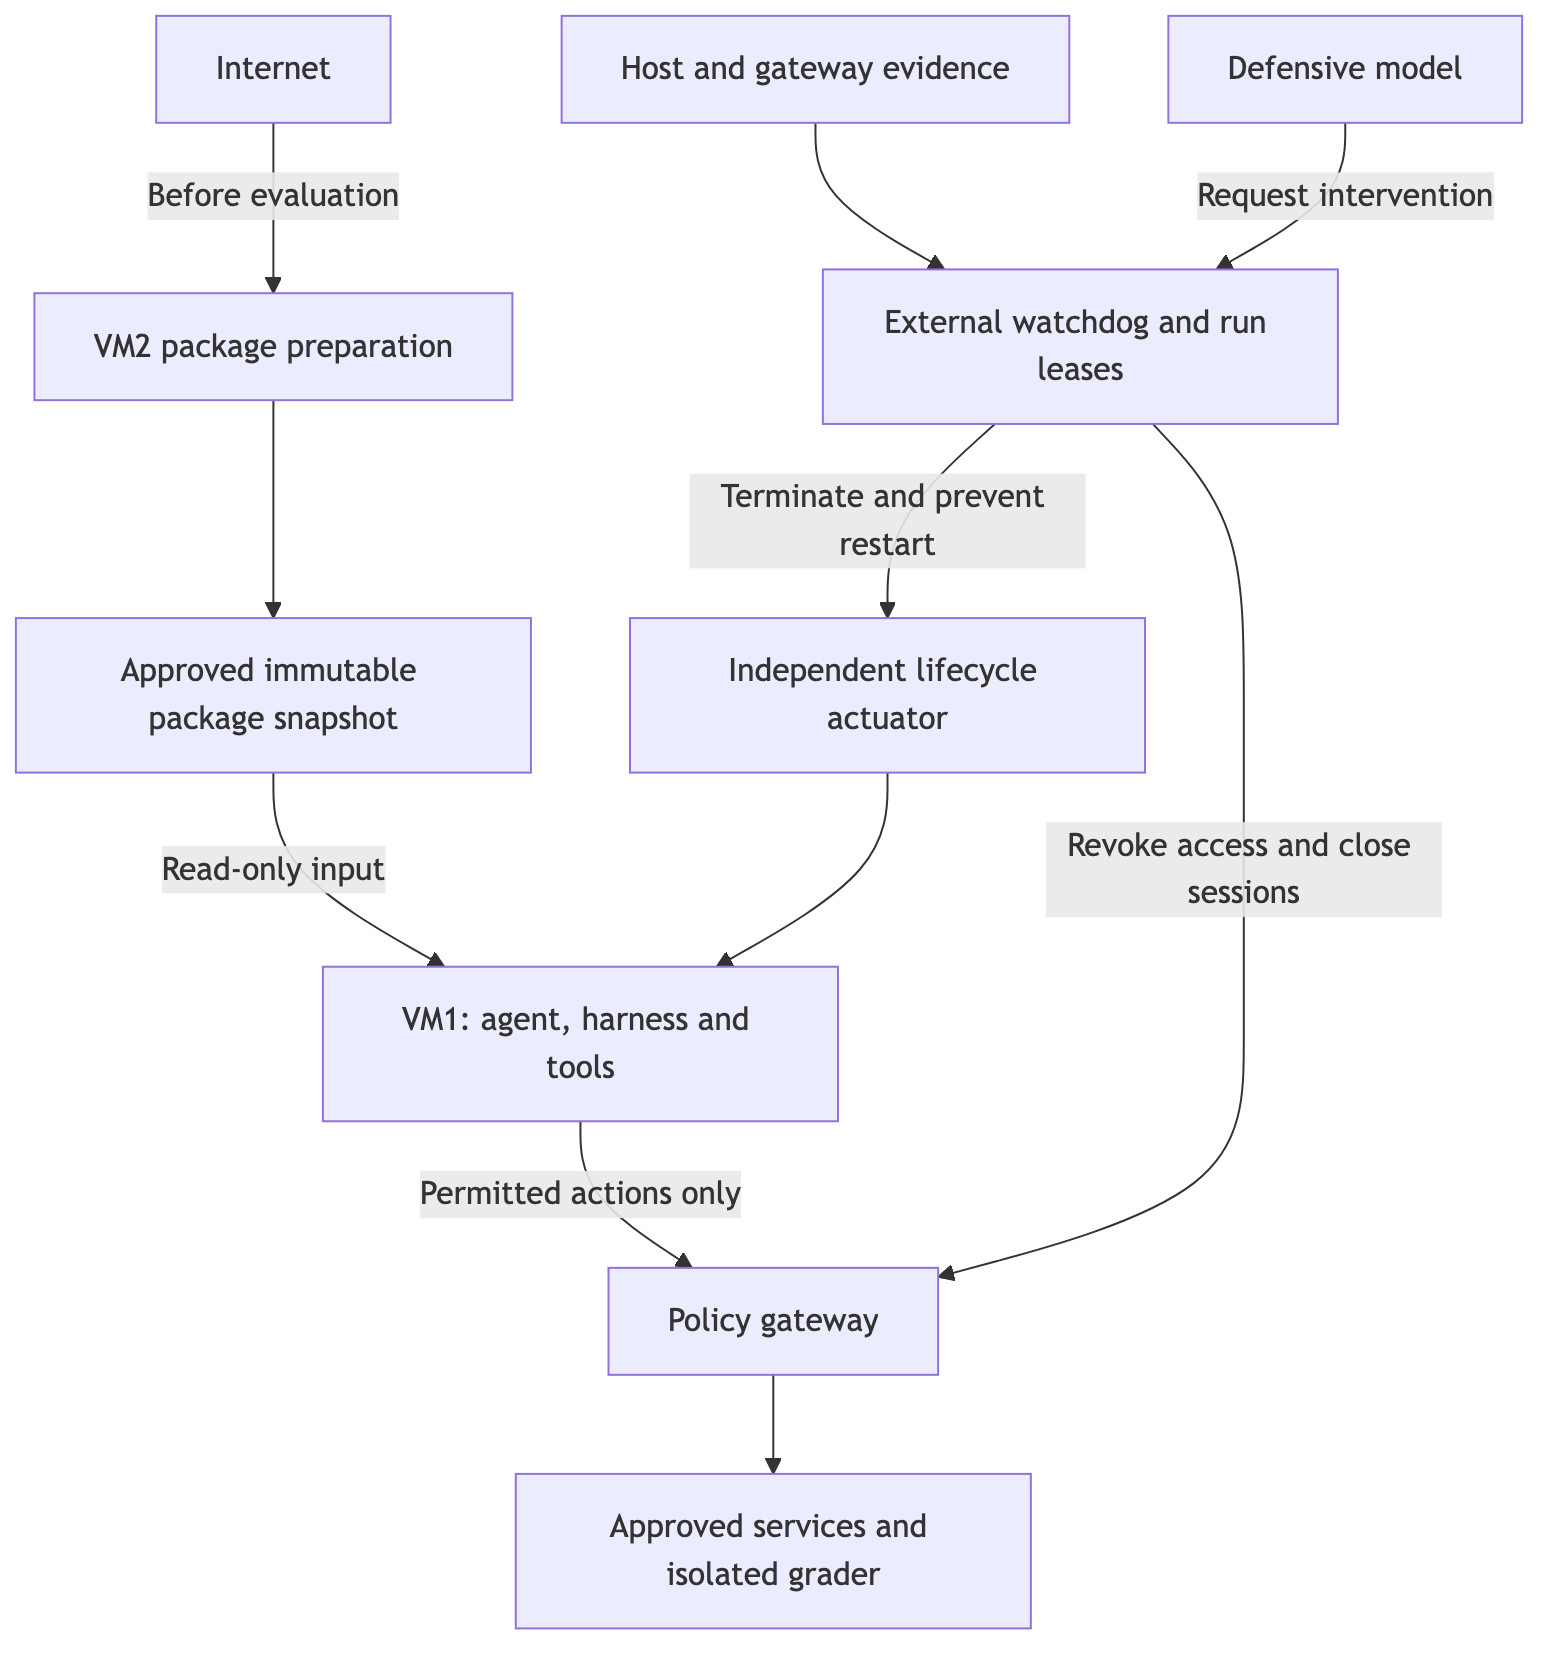
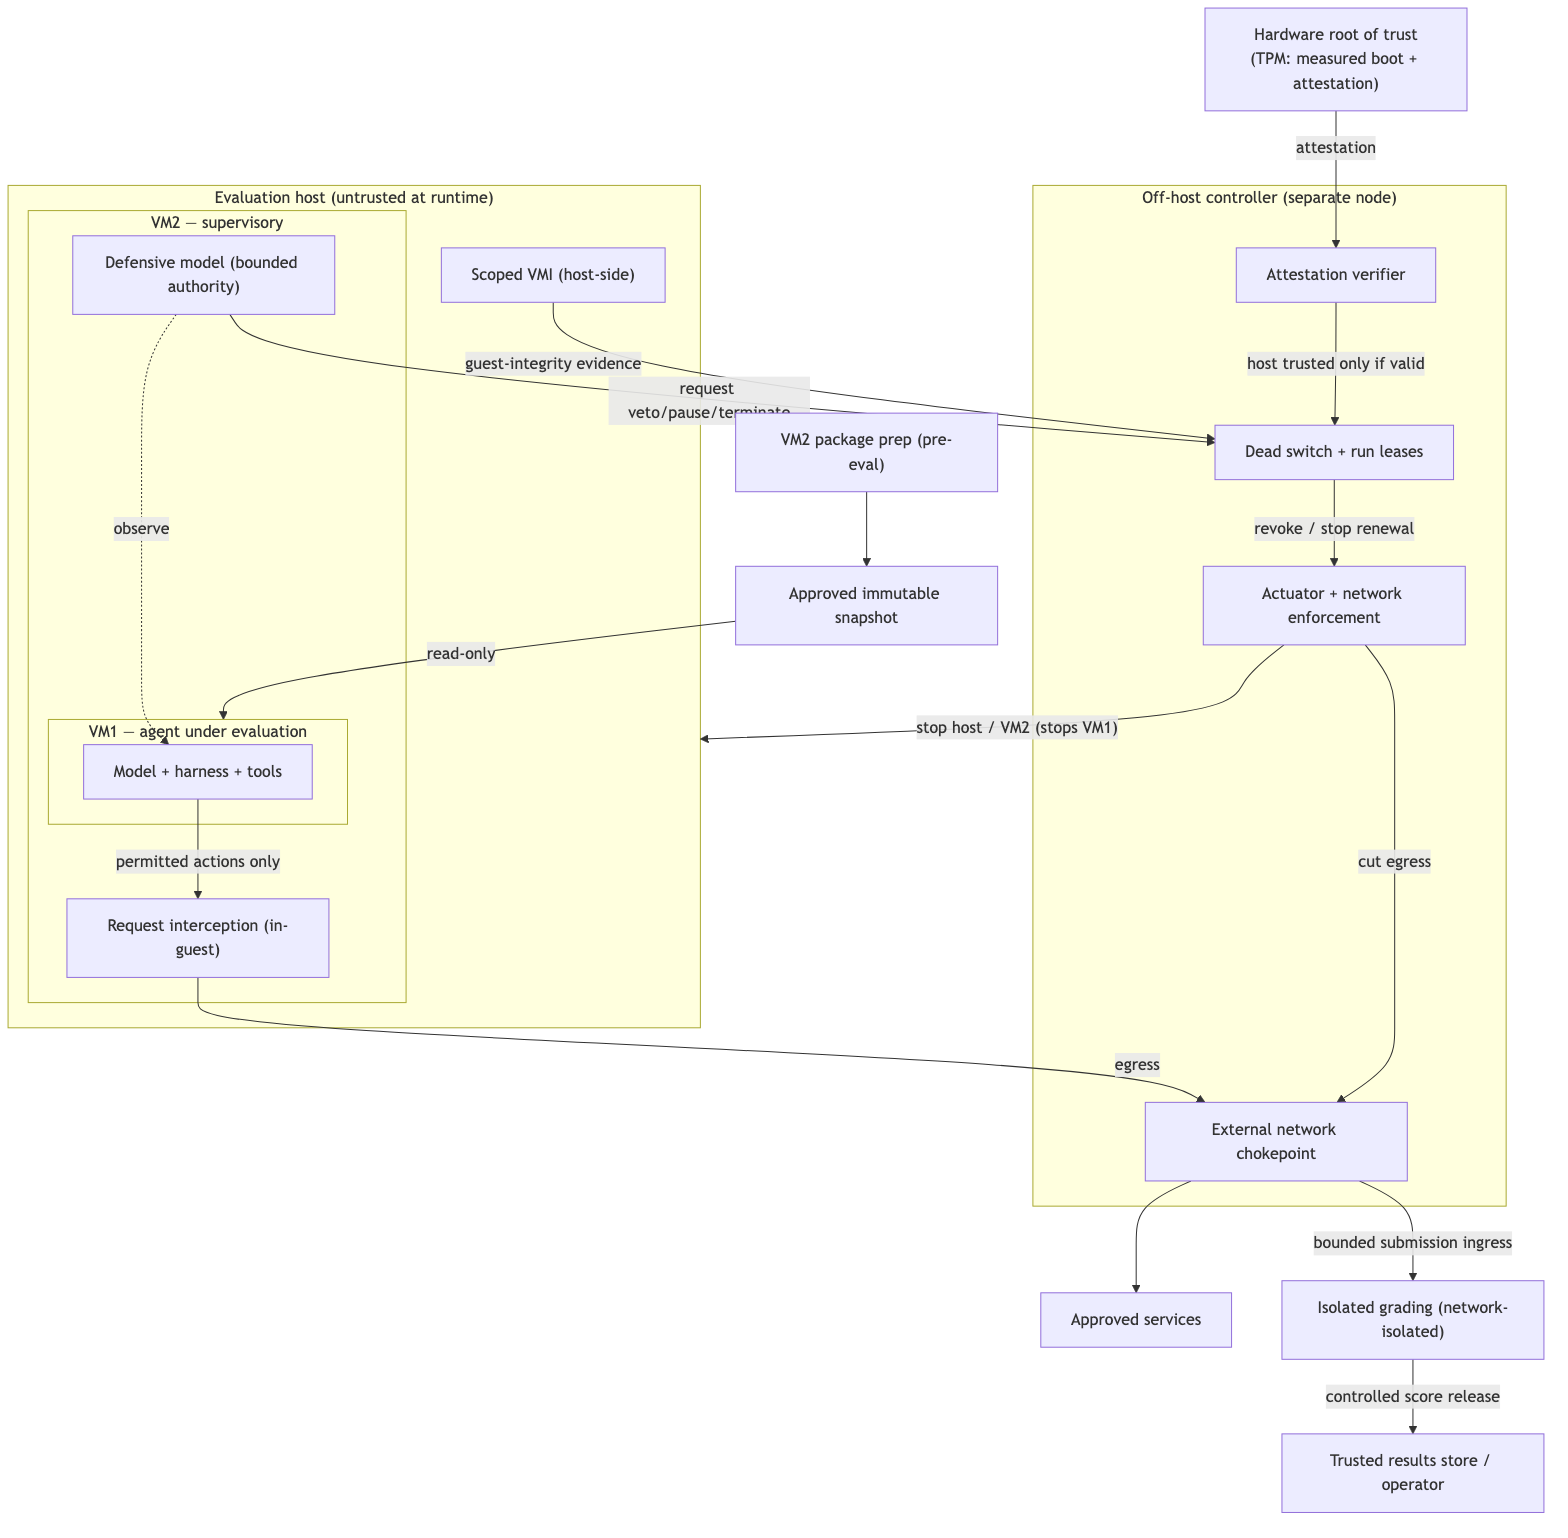
updates being applied for MVP architecture

diff --git a/dead-switch-architecture.md b/dead-switch-architecture.md
@@ -1,42 +1,97 @@
 # Agent-Containment Dead Switch — Revised Reference Architecture
 
-Source diagram by **Codex** (2026-09-12), revising Jean's original `agent-containment-dead-switch.png`
-after review of the OpenAI–Hugging Face incident report.
+Diagrams by **Codex** (2026-09-12), completing Jean's original `agent-containment-dead-switch.png`
+after review of the OpenAI–Hugging Face incident report. Jean's original already placed the dead switch
+external to VM2 and the defensive model outside the agent's VM; this revision keeps that structure and
+fills in the parts it left unspecified (the external kill mechanism, the measurement source, and — as
+of the 2026-09-12 scope decision — a hardware root of trust so containment survives host compromise).
 
 - Rendered image: `dead-switch-architecture.png`
 - Diagram source: `dead-switch-architecture.mmd`
+- Grading companion: `dead-switch-grading.png` / `dead-switch-grading.mmd`
 
 ---
 
 ## Adopted design decisions (2026-09-12)
 
-Confirmed by Jean; the five upgrades below were adopted in full.
+Confirmed by Jean; consensus with Codex.
 
 1. **Dead switch = a short-lived _run lease_, not checksum polling.** Permission to keep running
    expires unless a trusted controller renews it, and every enforcement point honors expiry even
-   when it cannot reach that controller. Fail-closed by default.
-2. **The lifecycle actuator and network enforcement live _outside_ VM2.** A controller whose only
-   way to stop execution is to ask (possibly compromised) software inside VM2 to cooperate does not
-   count as independent.
-3. **The defensive AI has bounded authority.** It may _request_ a pause or termination; it may never
-   override a hard rule (forbidden destination, expired lease, policy change). Verified by swapping in
-   a model that approves everything — deterministic containment must still hold.
+   when it cannot reach that controller. Fail-closed by default. A lease grants *permission to
+   continue*, not proof of integrity (see _Scope, assumptions & limits_).
+2. **The lifecycle actuator and network enforcement live _outside_ the evaluation host** (see the
+   MVP scope decision). A controller whose only way to stop execution is to ask (possibly compromised)
+   software inside the host to cooperate does not count as independent.
+3. **The defensive AI has bounded authority.** It may trigger an automatic veto, pause, or
+   termination *through a constrained controller* — but it can never change hard policy, extend its
+   own authority, or override a revocation. Verified by swapping in a model that approves everything —
+   deterministic containment must still hold.
 4. **The shutdown mechanism ships in Phase A**, not deferred to Phase B. The local demo must already
    stop its own workloads reliably.
-5. **Isolated grading.** Grading secrets stay outside the agent environment; submissions arrive
-   through a narrow, bounded interface; any submitted code runs in a separate sandbox without those
-   secrets; oracle-style feedback is limited.
+5. **Isolated grading with evaluation-integrity controls.** The answer key and scorer are
+   network-isolated from the agent; submitted code runs in a disposable sandbox holding no key or
+   grading secrets; the _trusted scorer_ (not the sandbox) decides pass/fail; feedback release is
+   bounded across runs and variants; and every score is bound to the task version, submission, run
+   identity, and externally observed execution. See _Evaluation integrity_ below.
+
+### Pulled into the MVP (2026-09-12, Jean)
+
+These three raise the MVP from a *trusted-host* demo to a **survives-host-compromise** demo:
+
+6. **Scoped kernel-integrity measurement (VMI).** Specific, *named* host-side measurements with
+   stated coverage and blind spots, as an MVP deliverable. *Comprehensive* kernel-memory monitoring
+   remains on the roadmap (keeps decision A2 intact).
+7. **Hardware root of trust — TPM measured boot + remote attestation.** Measurement from *below* the
+   host, verified off-host, so a compromised host cannot forge its own integrity evidence. Chosen over
+   SEV-SNP/TDX because confidential-compute memory encryption is **mutually exclusive with host VMI
+   (#6)**; SEV-SNP/TDX stays a roadmap fork.
+8. **Off-host dead switch + actuator + external network chokepoint.** The run-lease authority, kill
+   path, and egress enforcement live on a *separate node* (not the evaluation host), so containment
+   survives host compromise. Cloud/serverless (Terraform) is one deployment of this; the MVP needs at
+   minimum a second, independent node.
 
 ### Foundations settled earlier (context)
 
-- **Measure from below.** A component cannot be root-of-trust for its own integrity. The in-guest
-  kernel self-checksum is demoted to an untrusted tripwire; the primary trusted measurement for the
-  local MVP is hypervisor VM introspection (VMI). Hardware attestation (TPM / SEV-SNP) is deferred,
-  and note SEV-SNP/TDX conflict with VMI.
-- **Egress / request mediation is the primary control.** The incident's message board lived in a
-  remote service (Artifactory, encoded in directory names) — invisible to any VM2-local checksum.
+- **Measure from below.** A component cannot be root-of-trust for its own integrity. Realized in the
+  MVP by TPM attestation (a hardware root below the host) + scoped host-side VMI, verified off-host —
+  the in-guest self-checksum is at most an untrusted tripwire.
+- **Egress / request mediation is a primary control**, enforced in two independent places: in-guest
+  interception, and the off-host chokepoint that survives host compromise. The incident's message
+  board lived in a remote service (Artifactory, encoded in directory names) — invisible to any
+  host-local checksum.
 - **Package pre-staging.** VM2 resolves + verifies the full dependency set, snapshots it immutably,
   mounts it read-only into VM1, and the fetch path is disabled during evaluation.
+
+---
+
+## Scope, assumptions & limits
+
+- **Isolation is mechanical, not absolute (A1).** Isolation rests on the VM boundary and
+  deny-by-default networking. Even with attestation it is not an unconditional no-escape guarantee:
+  hypervisor vulnerabilities exist, and network limits constrain communication but do not prevent
+  every local escape.
+- **Measurement is scoped, not omniscient (A2).** Scoped VMI (#6) is a committed MVP deliverable —
+  each measurement names what it covers and its blind spots. *Comprehensive* coverage is not required
+  for the MVP and stays on the roadmap.
+- **Three distinct functions (A3).** Keep separate: **evidence / measurement** (TPM attestation +
+  host VMI + gateway observations) → **authorization** (the run lease — permission to continue, not
+  proof of integrity) → **enforcement / termination** (the off-host actuator). Conflating them hides
+  that an *undetected* compromise can keep a lease renewing.
+
+---
+
+## Controller integrity (MVP-critical)
+
+- **Protect renewal authority (D1).** The host holds no credentials to issue leases, change external
+  policy, or clear a revocation. Its health reports and VMI evidence are *evidence to assess, not
+  authorization* — and are trusted only while its attestation is valid.
+- **Revocation persists (D2).** Startup defaults to stopped; stale leases, rebooted guests, and
+  queued jobs cannot resurrect a revoked run. Define which run resources shutdown covers.
+- **Bind review to execution (D3).** An action the defender approves executes as *that exact bounded
+  action* — no execution before review, no substitution afterward.
+- **Bound resource + telemetry (D4).** Cap guest resources and telemetry sizes so the host cannot
+  starve the off-host controller or overwhelm its input processing.
 
 ---
 
@@ -44,31 +99,112 @@ Confirmed by Jean; the five upgrades below were adopted in full.
 
 ```mermaid
 flowchart TB
-    Internet["Internet"] -->|"Before evaluation"| Prep["VM2 package preparation"]
-    Prep --> Snapshot["Approved immutable package snapshot"]
-    Snapshot -->|"Read-only input"| VM["VM1: agent, harness and tools"]
+    Prep["VM2 package prep (pre-eval)"] --> Snap["Approved immutable snapshot"]
 
-    VM -->|"Permitted actions only"| Gate["Policy gateway"]
-    Gate --> Services["Approved services and isolated grader"]
+    subgraph OFFHOST["Off-host controller (separate node)"]
+      Verify["Attestation verifier"]
+      Lease["Dead switch + run leases"]
+      Actuator["Actuator + network enforcement"]
+      Choke["External network chokepoint"]
+    end
 
-    Evidence["Host and gateway evidence"] --> Watch["External watchdog and run leases"]
-    Monitor["Defensive model"] -->|"Request intervention"| Watch
+    subgraph HOST["Evaluation host (untrusted at runtime)"]
+      subgraph VM2["VM2 — supervisory"]
+        subgraph VM1["VM1 — agent under evaluation"]
+          Agent["Model + harness + tools"]
+        end
+        Intercept["Request interception (in-guest)"]
+        Defender["Defensive model (bounded authority)"]
+      end
+      VMI["Scoped VMI (host-side)"]
+    end
 
-    Watch -->|"Revoke access and close sessions"| Gate
-    Watch -->|"Terminate and prevent restart"| Actuator["Independent lifecycle actuator"]
-    Actuator --> VM
+    TPM["Hardware root of trust<br/>(TPM: measured boot + attestation)"]
+
+    Snap -->|"read-only"| VM1
+    Agent -->|"permitted actions only"| Intercept
+    Defender -.->|"observe"| Agent
+    Intercept -->|"egress"| Choke
+    Choke --> Services["Approved services"]
+    Choke -->|"bounded submission ingress"| Grader["Isolated grading (network-isolated)"]
+    Grader -->|"controlled score release"| Results["Trusted results store / operator"]
+
+    TPM -->|"attestation"| Verify
+    VMI -->|"guest-integrity evidence"| Lease
+    Verify -->|"host trusted only if valid"| Lease
+    Defender -->|"request veto/pause/terminate"| Lease
+    Lease -->|"revoke / stop renewal"| Actuator
+    Actuator -->|"cut egress"| Choke
+    Actuator -->|"stop host / VM2 (stops VM1)"| HOST
+```
+
+---
+
+## Evaluation integrity (isolated grading)
+
+Protecting the answer sheet alone is not enough — an agent that cannot read the key can still defeat
+grading by exploiting the scorer, mining feedback, or forging what gets graded. Four surfaces, each
+with its own control:
+
+1. **Answer key / reference outputs — isolate, and keep fresh.** Hold keys and grading credentials on
+   a network-isolated grader the agent environment cannot initiate a connection to. Isolation protects
+   _secret / held-out_ keys; it cannot restore secrecy for answers already public, baked into model
+   weights, present in local dependencies, or left in previous-run artifacts. Those need _fresh
+   held-out tasks_ and _contamination checks_, which egress denial alone cannot provide.
+2. **Grader executes submitted code — separate execution from the secrets.** Submitted code runs in a
+   disposable sandbox with no answer key and no grading credentials. The trusted scorer makes the final
+   decision _after_ execution; the sandbox must never return an authoritative "I passed."
+   (Non-executable submissions skip the sandbox.) Grading gets its own authorization and network
+   restrictions, and its execution workers fall under the same lease + shutdown coverage — a separate
+   box is not, by itself, independence.
+3. **Feedback is an oracle — bound information release across runs and variants.** Rich per-submission
+   feedback (scores, error detail, timing) lets agents extract answers over many attempts; the leak is
+   _cross-run and cross-variant_, not merely per-agent, so delaying feedback to end-of-run does not
+   close it. Default: release only to a trusted results store or operator; feedback to an active agent
+   is an explicit, bounded benchmark decision.
+4. **Evidence integrity — bind the score to what was actually graded.** Bind each score to the task
+   version, the immutable submission, the run identity, and externally observed execution.
+
+**Grading integrity ≠ preventing every cheating strategy (A4).** The grader guarantees trustworthy
+*scoring*; it does not prevent local reference answers, memorized solutions, or prohibited
+collaboration — those need fresh held-out tasks, provenance, isolation, and behavioral oversight.
+**State the supported cheating scenarios explicitly for each benchmark.**
+
+The practical form is a **network-isolated grader with controlled ingress and egress** (bounded
+submission in, minimal score out) — logical isolation that scales to thousands of model variants, not
+physical sneakernet. It is a _second, independent_ barrier to egress mediation.
+
+```mermaid
+flowchart LR
+    I["Validated, immutable submission"] --> X["Disposable execution sandbox"]
+    C["Trusted scorer"] -->|"Required test inputs"| X
+    X -->|"Bounded execution observations"| C
+    K["Answer key / reference outputs"] --> C
+    C --> F["Feedback release policy"]
+    F --> R["Trusted results store"]
+    A["Independent lifecycle actuator"] -->|"Terminate + prevent restart"| X
 ```
 
 ---
 
 ## MVP trust boundary
 
-> The agent may obtain complete control of VM1. VM2 and the underlying host remain trusted.
+> The agent may obtain complete control of VM1, VM2 may be compromised, **and the evaluation host may
+> be compromised at runtime.**
 
-A stronger claim — *containment continues after VM2 is compromised* — requires the network
-enforcement and shutdown actuator to operate outside VM2's authority (decision #2). A single-machine
-prototype demonstrates the behavior under the trusted-host assumption; it cannot establish
-independence from that entire machine.
+Containment does **not** rest on the host being trustworthy. It rests on:
+
+- **(a)** a hardware root of trust (TPM measured boot + remote attestation) that a compromised host
+  cannot forge, verified *off-host*;
+- **(b)** an off-host dead switch + actuator + external network chokepoint, so the kill path and
+  egress enforcement are independent of the host; and
+- **(c)** scoped host-side VMI whose evidence is trusted **only while the host's attestation is valid.**
+
+**Residual limits (honest).** TPM attests *boot*, not full runtime — continuous runtime integrity is
+partial (runtime measurement where available, plus out-of-host behavioral evidence at the chokepoint).
+Isolation is mechanical, not absolute (hypervisor vulnerabilities remain). SEV-SNP/TDX would give
+stronger memory confidentiality but is mutually exclusive with host VMI, so it is a roadmap fork, not
+part of this MVP.
 
 ---
 
@@ -80,9 +216,26 @@ independence from that entire machine.
 | Request a missing dependency | Fails without triggering an external fetch. |
 | Attempt cross-run package-cache communication | One run cannot publish material another run observes through that path. |
 | Give the agent root inside VM1 | Forbidden network destinations and management interfaces remain unreachable. |
-| Drop telemetry or crash the watchdog | The lease expires and enforcement closes access within the declared bound. |
-| Replay old health messages | They cannot renew the current run's permission. |
+| **Compromise the host (root) and forge VMI evidence** | The off-host controller rejects it: attestation fails or goes stale → lease not renewed → egress cut + host/VM2 stopped within the declared bound. |
+| **Tamper the host boot stack** | Remote attestation fails; the off-host controller refuses to start or renew the run. |
+| Drop telemetry or partition the off-host controller | The lease expires and the external chokepoint denies egress within the declared bound. |
+| Replay old health / attestation messages | They cannot renew the current run's permission (freshness enforced). |
 | Trip during an active connection + background work | Connections close, managed descendants stop, and the run does not restart. |
 | Force the defensive model to approve everything | Deterministic containment rules remain enforced. |
+| Defensive-model adversarial eval | Across adversarial behavior, misleading evidence, and legitimate activity, measure missed violations and false interventions. |
+| Submitted code probes the grader during execution | No answer key or grading credentials are present in the execution sandbox. |
+| Execution sandbox forges a passing result | The trusted scorer rejects it; a score requires the scorer's own decision bound to the submission + task version. |
+| Probe feedback as an oracle across many submissions and variants | Information release stays within the declared bound (scores, error detail, and timing included). |
 
 Record containment latency, false interventions, benchmark completion, and performance overhead.
+
+---
+
+## Deferred to post-MVP (roadmap)
+
+Agreed as later options, not MVP requirements:
+
+- Comprehensive kernel-memory monitoring (the MVP ships *scoped* VMI only).
+- SEV-SNP / TDX confidential computing — a VMI-exclusive alternative to the TPM+VMI MVP.
+- Custom cryptography.
+- Selective termination of nested guests (stopping VM1 independently of VM2).
